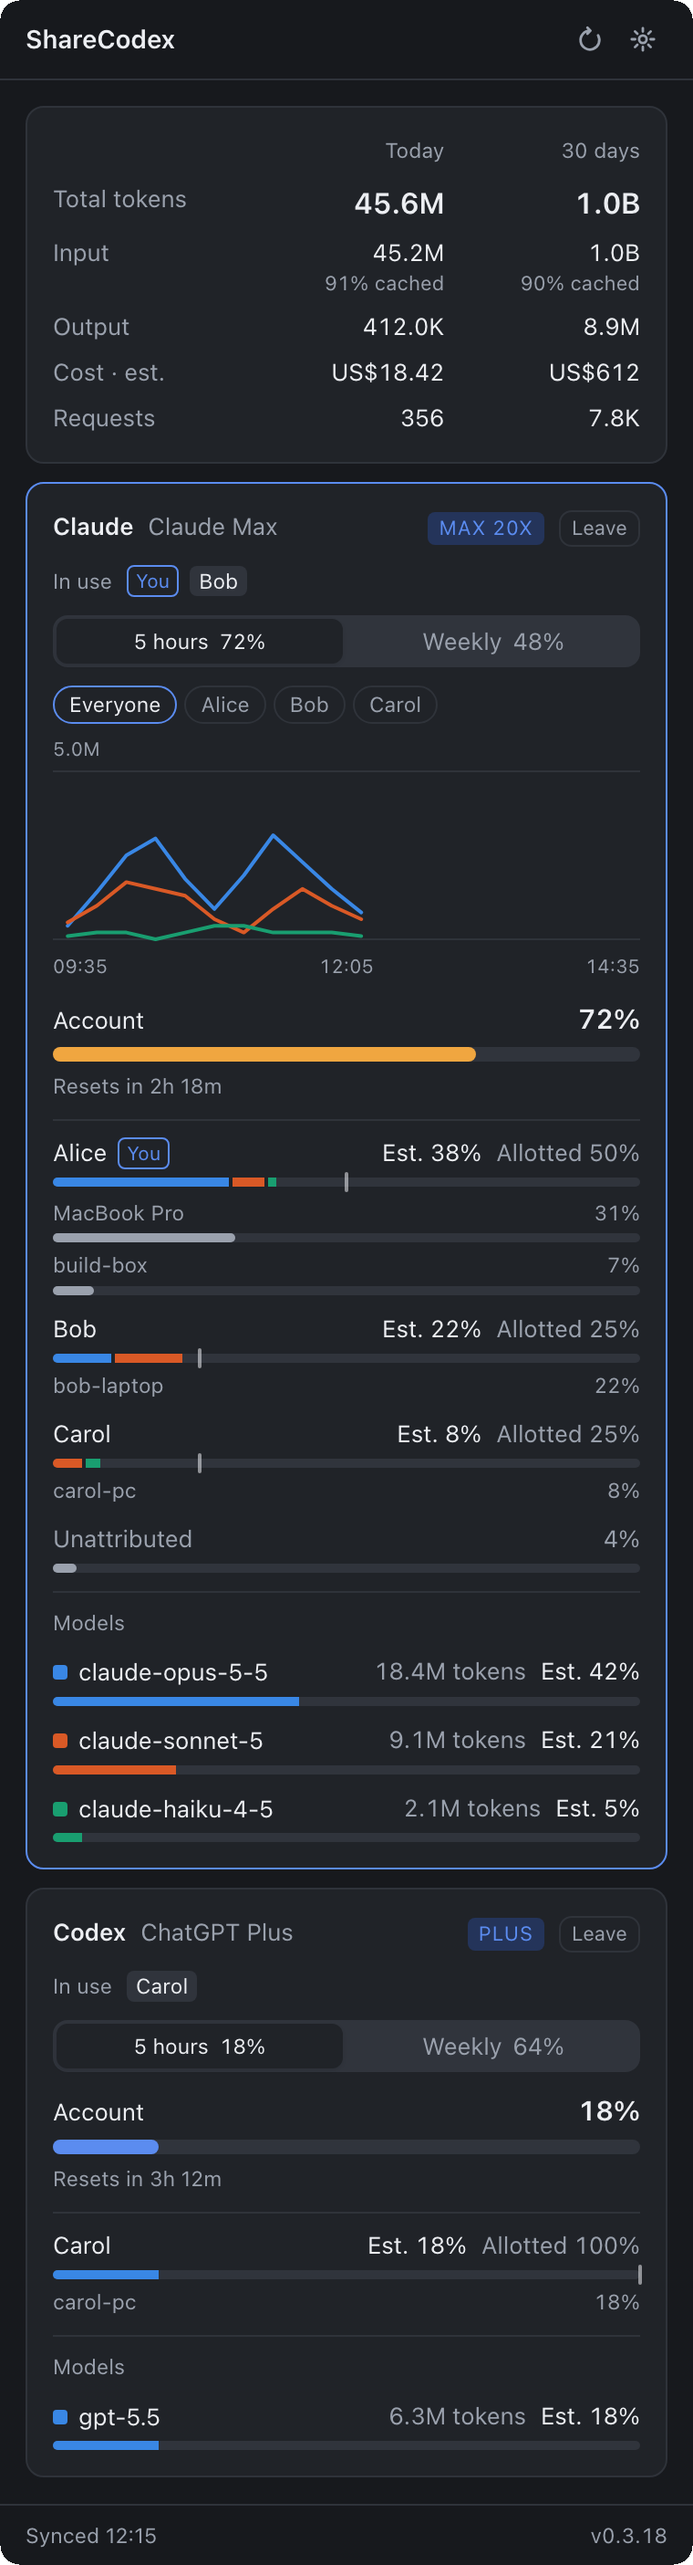
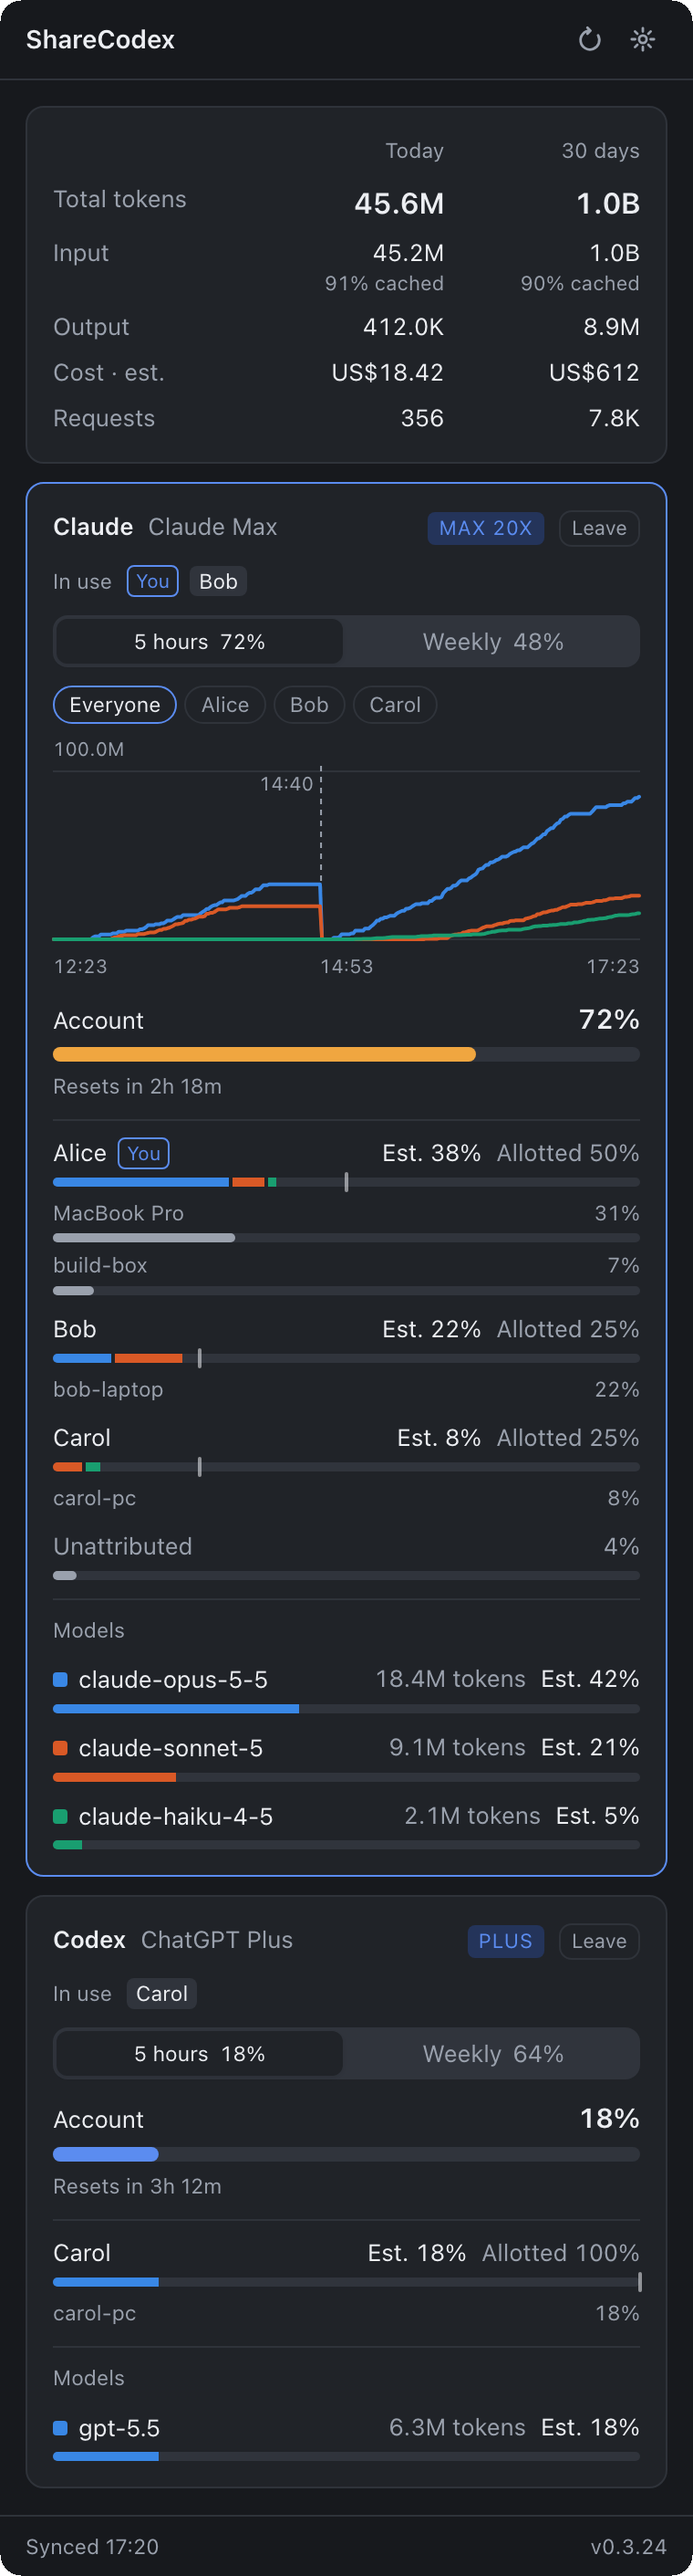
docs: show the cumulative usage chart

diff --git a/README.md b/README.md
@@ -86,8 +86,10 @@ tell whether the week went to Opus or to a long run of Sonnet.
 
 ### Usage over time
 
-A chart under the window switch shows tokens over the current 5-hour or weekly window, a line per
-model. Switch it between everyone and a single member; hover to read each model's tokens at a time.
+A chart under the window switch shows each model's running total of tokens over the last 5 hours or
+7 days, to the minute on the 5-hour chart. A dashed line marks each reset, labelled with its time, and
+the totals start again from zero there, so after a reset the previous window stays in view. Switch it
+between everyone and a single member; hover to read each model's total at that moment.
 
 ### Joining takes one link
 
